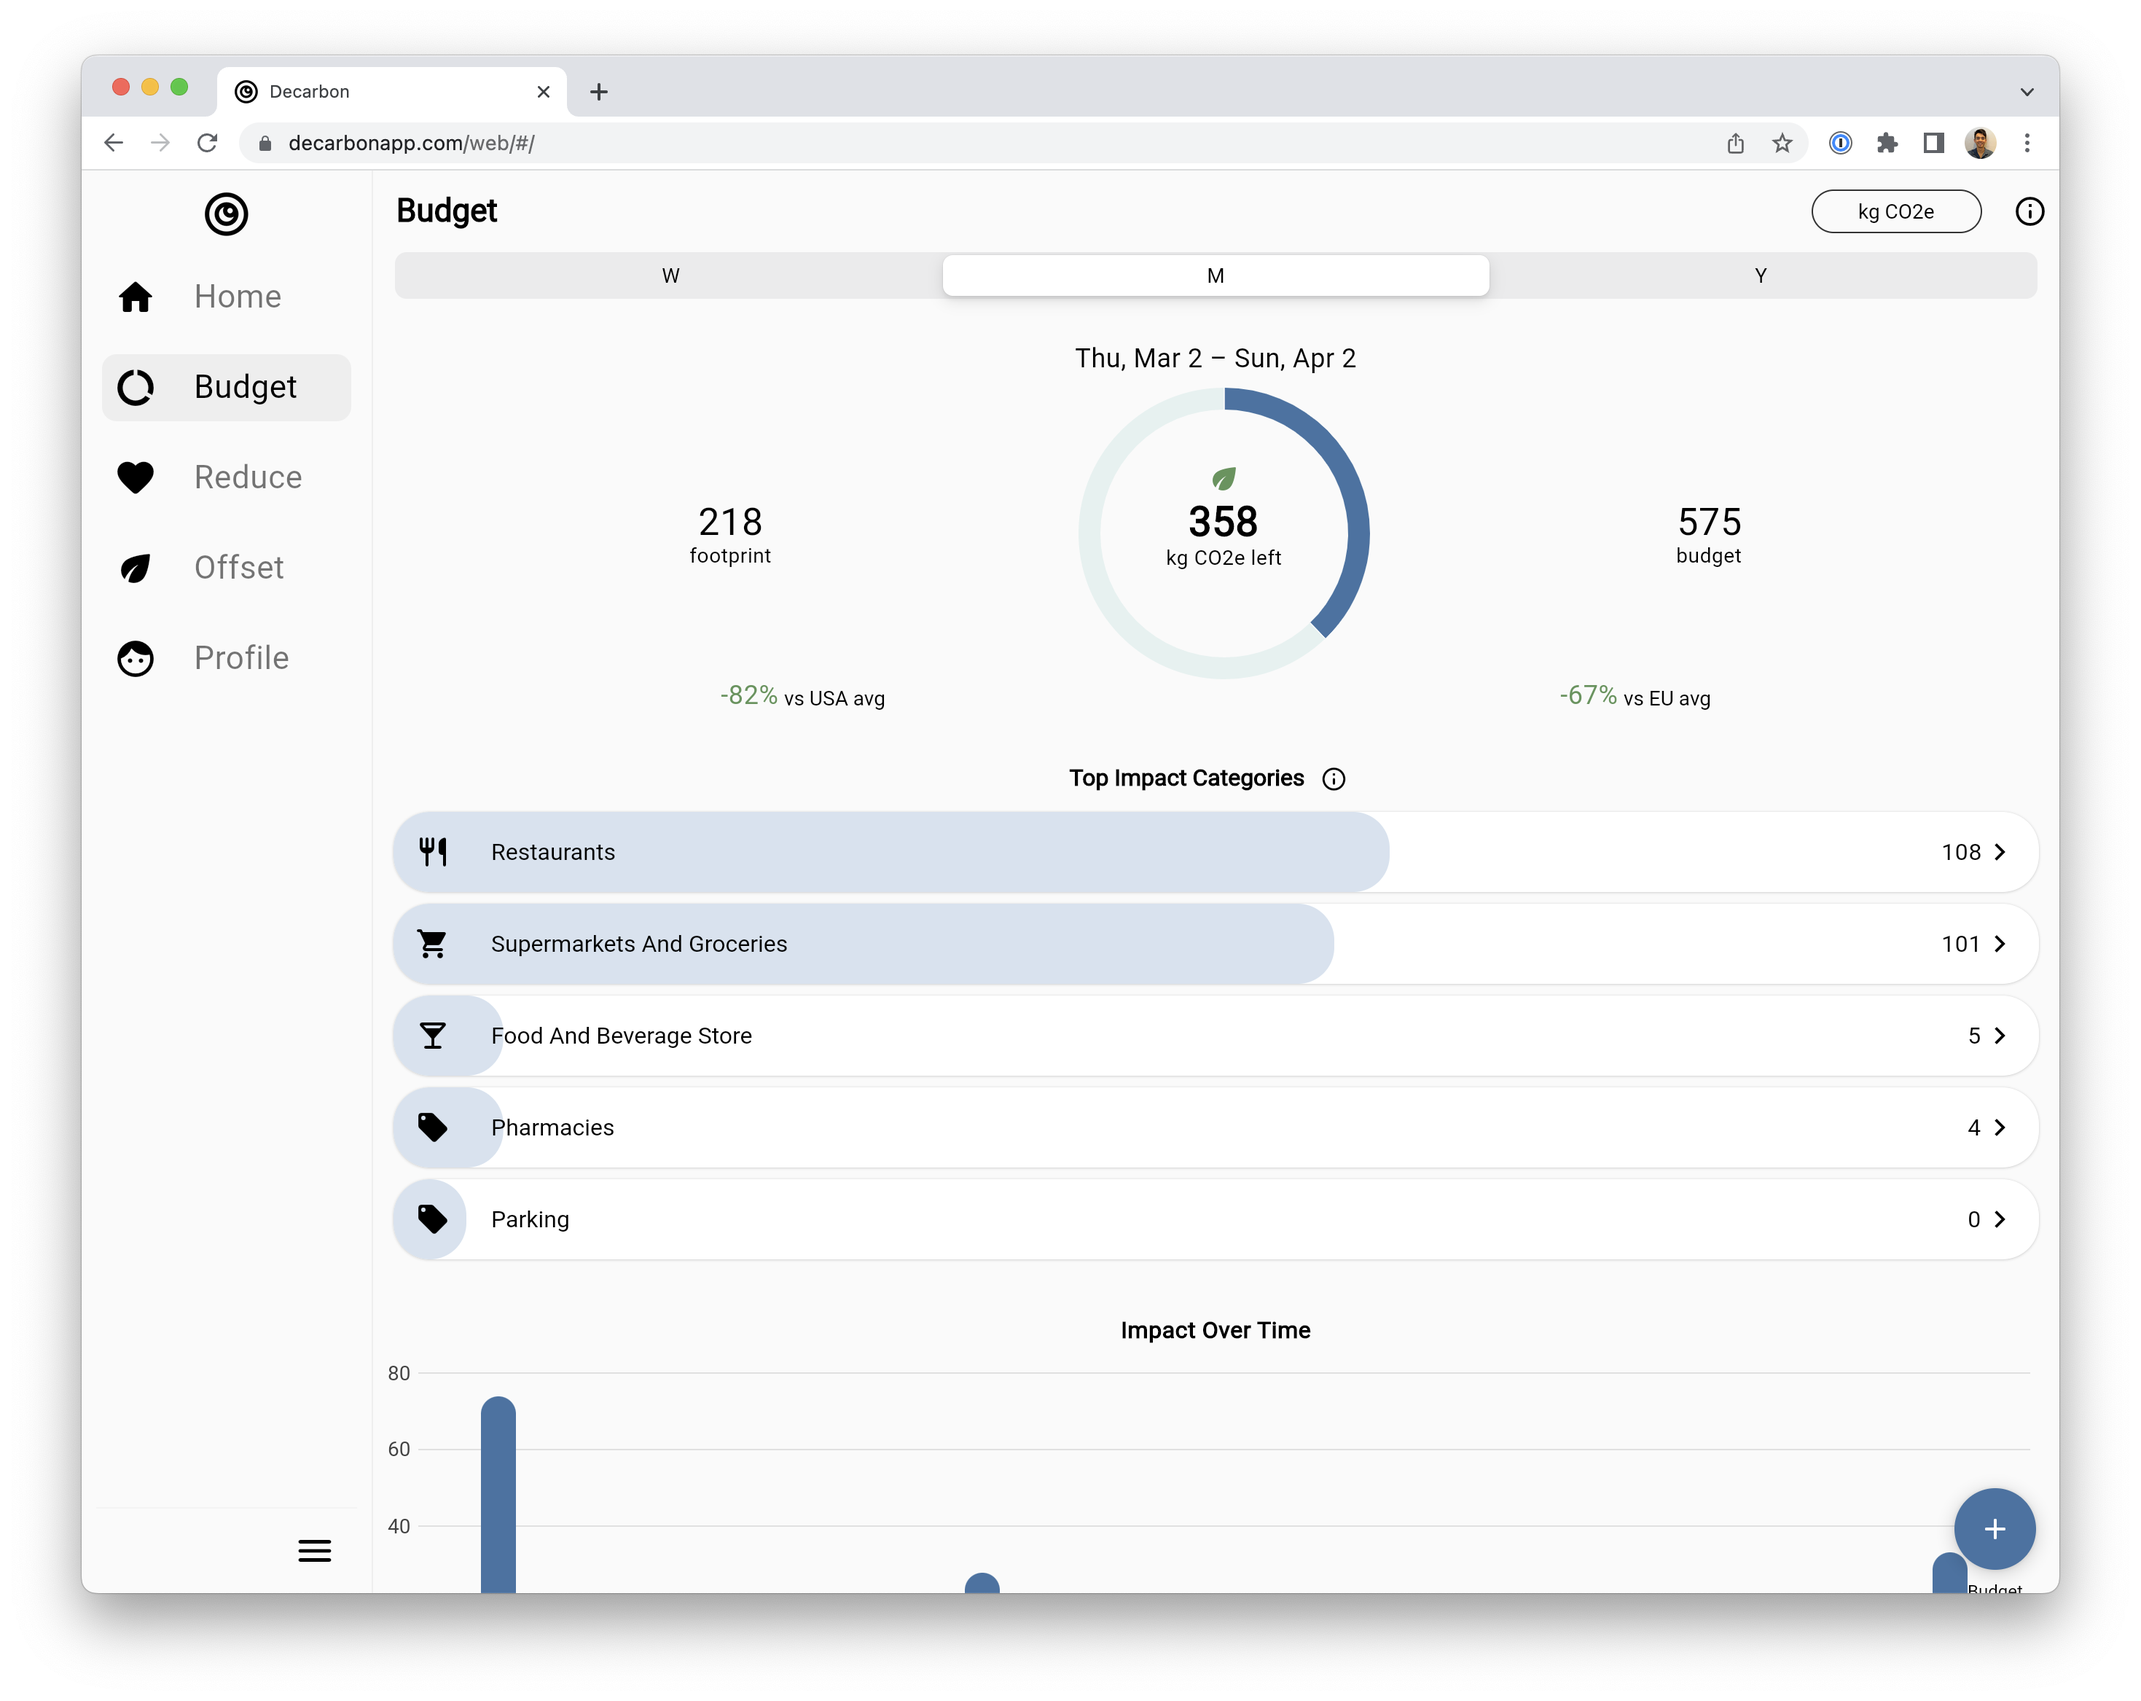
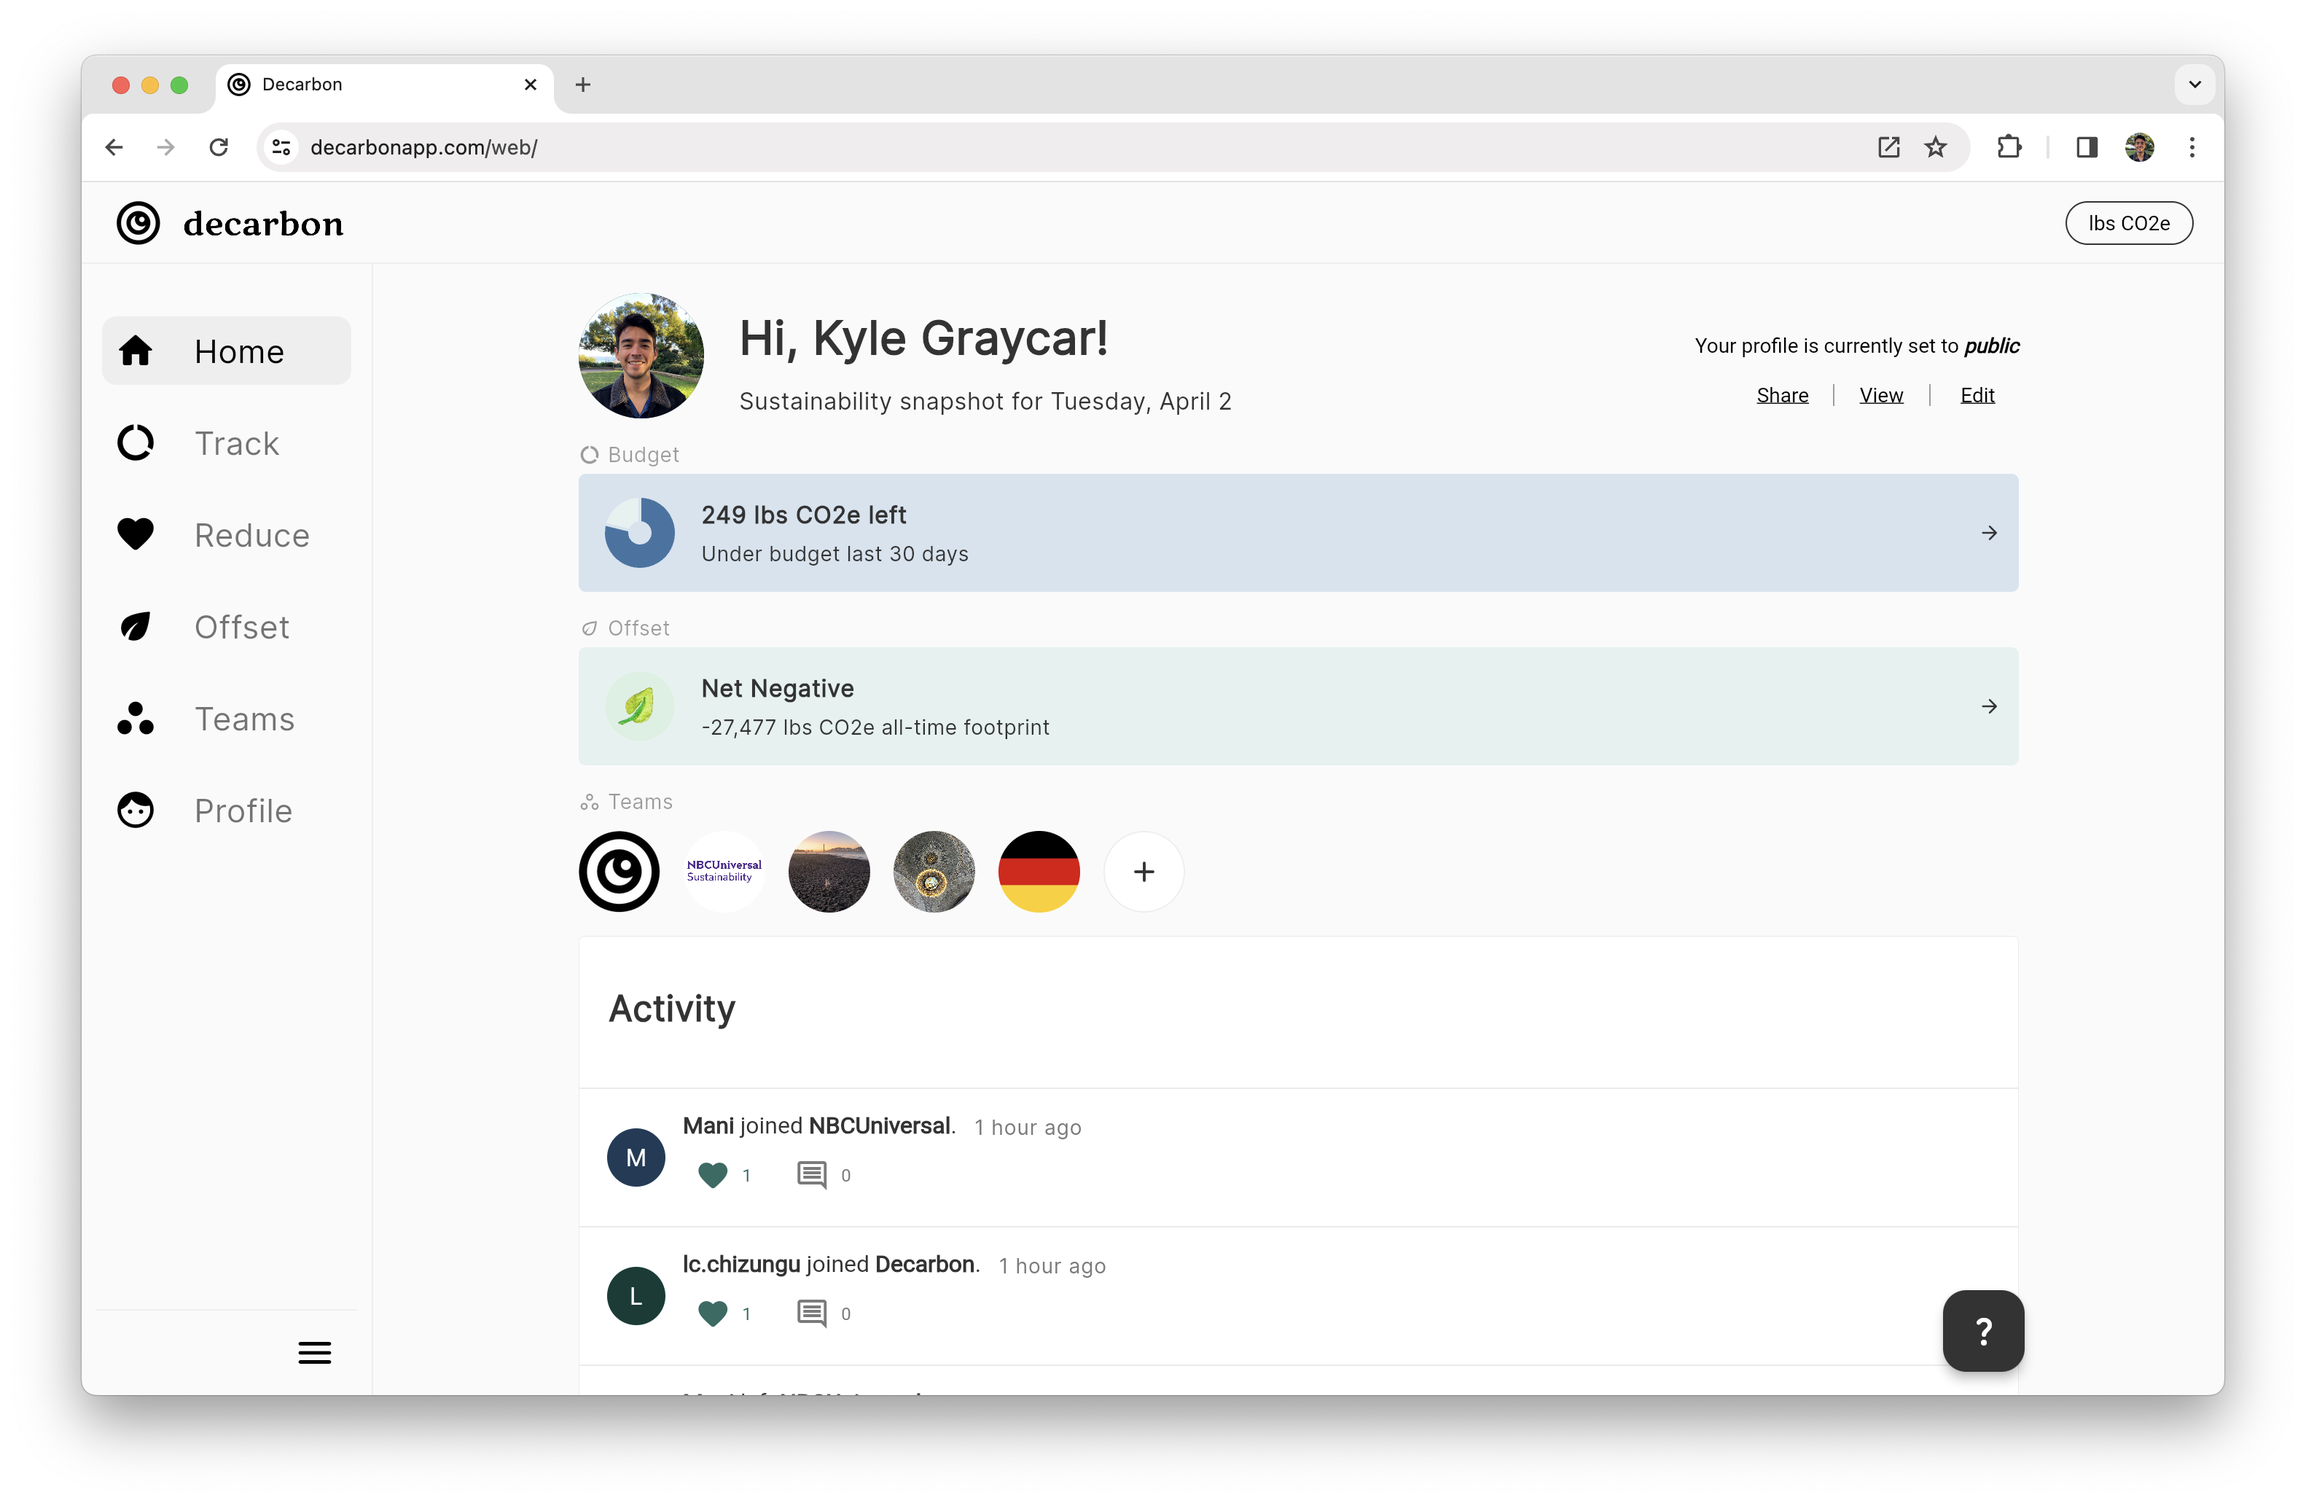
site refresh

diff --git a/_sass/minima/_base.scss b/_sass/minima/_base.scss
@@ -139,7 +139,7 @@ blockquote {
   border-left: 4px solid $brand-color;
   background-color: $brand-color-light;
   padding: calc($spacing-unit / 2);
-  @include relative-font-size(1.125);
+  @include relative-font-size(1);
 
   > :last-child {
     margin-bottom: 0;
@@ -183,8 +183,8 @@ pre {
  * Wrapper
  */
 .wrapper {
-  max-width: -webkit-calc(#{$content-width} - (#{$spacing-unit} * 2));
-  max-width:         calc(#{$content-width} - (#{$spacing-unit} * 2));
+  max-width: -webkit-calc(#{$content-width} - (#{$spacing-unit} * 5));
+  max-width:         calc(#{$content-width} - (#{$spacing-unit} * 5));
   margin-right: auto;
   margin-left: auto;
   padding-right: calc($spacing-unit / 2);

diff --git a/_layouts/home.html b/_layouts/home.html
@@ -9,7 +9,7 @@ layout: default
     border: 5px solid white;">
     {%- endif -%}
     {%- if page.title -%}
-    <h1 class="page-heading">{{ page.title }} 🌿</h1>
+    <h1 class="page-heading">{{ page.title }}</h1>
     <p><small>📍 Los Angeles, California</small></p>
     <p>"Swiss army knife" freelancer (marketing, product, software) experienced in climate and ed tech startups.</p>
     <p><small><a href="mailto:kgraycar@gmail.com" target="_blank">Email</a></small></p>

diff --git a/_sass/minima.scss b/_sass/minima.scss
@@ -3,7 +3,7 @@
 // Define defaults for each variable.
 
 $base-font-family: -apple-system, BlinkMacSystemFont, "Segoe UI", Roboto, Helvetica, Arial, sans-serif, "Apple Color Emoji", "Segoe UI Emoji", "Segoe UI Symbol" !default;
-$base-font-size:   32px !default;
+$base-font-size:   28px !default;
 $base-font-weight: 400 !default;
 $bold-font-weight: 500 !default;
 $small-font-size:  $base-font-size * 0.875 !default;

diff --git a/_includes/footer.html b/_includes/footer.html
@@ -6,7 +6,7 @@
     text-align: center;
     color: white;
     padding-left: 11px;">
-    <div class="footer-cta">Let's chat
+    <div class="footer-cta">Let's chat!
     </div>
   </a>
 </footer>
